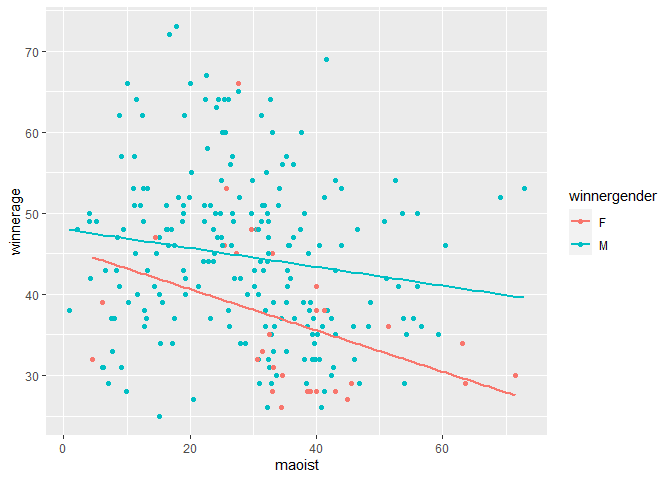
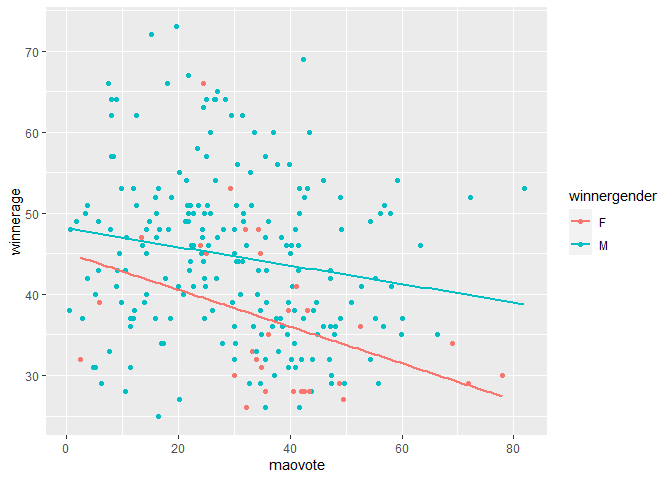
added opening paragraph and switched dataset.

diff --git a/README.md b/README.md
@@ -8,44 +8,78 @@
 
 ## Introduction
 
-Nepal is a very interesting country.
+Nepal is one of only a few countries in the world that successfully
+integrated a rebel group into its political system, a process that has
+yielded relatively peaceful results to the present day. From 1996 to
+2006, the Nepalese people experienced the tragedy and wholesale
+destruction of a [civil
+war](https://en.wikipedia.org/wiki/Nepalese_Civil_War) that destroyed
+lives, communities and families alike. For the personal stories of those
+affected, the [INSEC](https://www.insec.org.np/victim) database
+comprehensively catalogues details on the thousands of dead, wounded and
+missing of the conflict.
+
+Given Nepal’s unique story, I put together a study to examine the
+relationship between a rebel group’s actions during a civil conflict
+(regarding their treatment of civilians and casualties inflicted on
+government forces), and its performance in postwar transitional
+elections.
 
 ## The data
 
-Here is the data on blah:
+Here is a subsection of the dataset I compiled. There is also data on
+Maoist electoral performance, and some attributes of the successful and
+unsuccessful candidates who contested the single-member constituencies.
 
 ``` r
 library(tidyverse)
 library(kableExtra)
 
-df = read.csv("nepalelection.csv")
+df = read.csv("completedata.csv")
 kable(head(df))
 ```
 
-| districtname | constnum | constname      | maoist |   uml | nepalicongress | turnout | candidate_avgage | winnerage | per_femalecandidates | per_malecandidates | winnergender |
-|:-------------|---------:|:---------------|-------:|------:|---------------:|--------:|-----------------:|----------:|---------------------:|-------------------:|:-------------|
-| Achham       |        1 | Achham 1       |  29.04 | 38.86 |          25.98 |   54.53 |            40.57 |        40 |                 0.00 |             100.00 | M            |
-| Achham       |        2 | Achham 2       |  32.35 | 27.04 |          21.00 |   52.82 |            45.50 |        32 |                 0.00 |             100.00 | M            |
-| Arghakhanchi |        1 | Arghakhanchi 1 |  35.54 | 19.85 |          21.64 |   55.34 |            44.75 |        46 |                12.50 |              87.50 | M            |
-| Arghakhanchi |        2 | Arghakhanchi 2 |  25.44 | 29.48 |          33.72 |   52.05 |            44.33 |        46 |                16.67 |              83.33 | F            |
-| Baglung      |        1 | Baglung 1      |  30.47 | 27.92 |          24.72 |   60.01 |            46.70 |        48 |                10.00 |              90.00 | M            |
-| Baglung      |        2 | Baglung 2      |  19.98 |  8.56 |          27.38 |   55.29 |            47.00 |        66 |                10.00 |              90.00 | M            |
+| districtname | constnum | constname      | maovote | civdeath_gov | civdeath_mao | govtdeath | maodeath | statebased | onesided | turnout | candidate_avgage | winnerage | per_femalecandidates | per_malecandidates | winnergender |
+|:-------------|---------:|:---------------|--------:|-------------:|-------------:|----------:|---------:|-----------:|---------:|--------:|-----------------:|----------:|---------------------:|-------------------:|:-------------|
+| Achham       |        1 | Achham 1       |   31.09 |         0.00 |         0.00 |      0.00 |     0.00 |       0.00 |     0.00 |   54.53 |            40.57 |        40 |                 0.00 |             100.00 | M            |
+| Achham       |        2 | Achham 2       |   35.56 |         6.27 |         8.36 |    138.97 |    76.27 |      14.63 |   215.24 |   52.82 |            45.50 |        32 |                 0.00 |             100.00 | M            |
+| Arghakhanchi |        1 | Arghakhanchi 1 |   40.20 |         0.00 |         0.00 |      0.00 |     0.00 |       0.00 |     0.00 |   55.34 |            44.75 |        46 |                12.50 |              87.50 | M            |
+| Arghakhanchi |        2 | Arghakhanchi 2 |   24.03 |        16.19 |         8.63 |     62.59 |    87.42 |      24.82 |   150.01 |   52.05 |            44.33 |        46 |                16.67 |              83.33 | F            |
+| Baglung      |        1 | Baglung 1      |   30.12 |         0.00 |         0.00 |      0.00 |     0.00 |       0.00 |     0.00 |   60.01 |            46.70 |        48 |                10.00 |              90.00 | M            |
+| Baglung      |        2 | Baglung 2      |   17.98 |         0.00 |         0.00 |      0.00 |     0.00 |       0.00 |     0.00 |   55.29 |            47.00 |        66 |                10.00 |              90.00 | M            |
 
 ## Descriptive statistics
 
-With this data, we can see what the average blah is:
+With this data, we can examine the mean age of candidates and winning
+candidates in each electoral district along with concurrent violence
+statistics.
 
 ``` r
 mean(df$winnerage)
 #> [1] 43.725
+mean(df$candidate_avgage)
+#> [1] 44.46258
+mean(df$civdeath_gov)
+#> [1] 4.54925
+mean(df$civdeath_mao)
+#> [1] 5.957208
+mean(df$govtdeath)
+#> [1] 10.75725
+mean(df$maodeath)
+#> [1] 24.28762
+mean(df$statebased)
+#> [1] 10.50646
+mean(df$onesided)
+#> [1] 35.04487
 ```
 
 ## Plots
 
-We could also visualize blah:
+We can visualize how the age of winning candidates moves with gender and
+the Maoist vote share in each electoral district.
 
 ``` r
-ggplot(df, aes(maoist, winnerage, colour = winnergender)) + 
+ggplot(df, aes(maovote, winnerage, colour = winnergender)) + 
   geom_point() + 
   geom_smooth(method=lm, se=FALSE)
 ```
